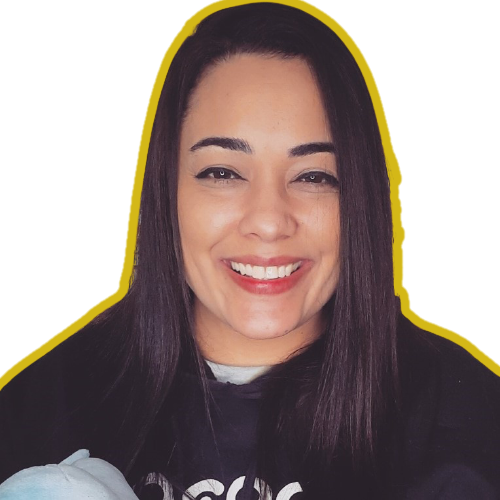
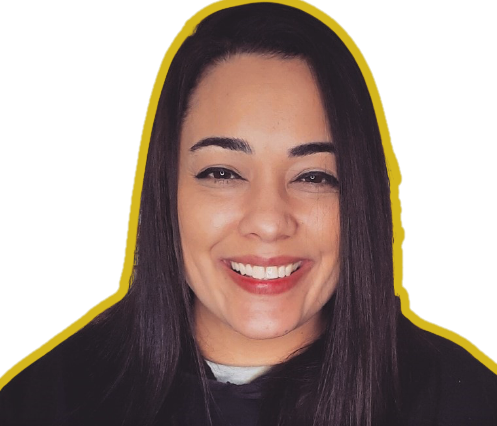
Atualizei tamanho da imagem e link das redes

diff --git a/resiliaflix_contato/contato.html b/resiliaflix_contato/contato.html
@@ -65,100 +65,103 @@
         </div>
         1-->
          <!--Amanda-->
-        <div class="card-deck">
-            <div class="card">
-              <img class="rounded-circle" width="90%" src="teste.png" alt="Card image cap">
-              <div class="card-body">
-                <h5 class="card-title">Amanda</h5>
-                <div class="logos">
-                    <nav class = "redes">
-                        <a href="https://github.com/Moniquesouzas"><img class="rounded" width="70%"  src="git.png"></a>
-                        <a href="https://www.linkedin.com/in/moniquesouzas/"><img class="rounded" width="70%" src="link.png"></a>
-                        <a href="mailto:monique.souzas@gmail.com"><img class="rounded" width="70%" src="mail.png"></a>
-                    </nav>
-                </div>
+        <div class="conjunto">
+            <div class="card-deck">
+                <div class="card">
+                <img class="rounded-circle" width="90%" src="amanda.png" alt="Card image cap">
                 
-              </div>
-            </div>
-            <!--Emanuelly Assuéria-->
-            <div class="card">
-              <img class= "rounded-circle" width="80%" src="emanuelly.png" alt="Card image cap" >              
-              <div class="card-body" > 
-                <h5 class="card-title">Emanuelly</h5>
-                <div class="logos">
-                    <nav class = "redes">
-                        <a href="https://github.com/Moniquesouzas"><img class="rounded" width="70%"  src="git.png"></a>
-                        <a href="https://www.linkedin.com/in/moniquesouzas/"><img class="rounded" width="70%" src="link.png"></a>
-                        <a href="https://www.linkedin.com/in/moniquesouzas/"><img class="rounded" width="70%" src="mail.png"></a>
-                    </nav>
-                </div>
-                
-              </div>
-            </div>
-            <!--Helena Fonseca-->
-            <div class="card">
-              <img class= "rounded-circle" width="77%" src="helena.png" alt="Card image cap">
                 <div class="card-body">
-                <h5 class="card-title">Helena</h5>
-                <div class="logos">
-                    <nav class = "redes">
-                        <a href="https://github.com/Moniquesouzas"><img class="rounded" width="70%"  src="git.png"></a>
-                        <a href="https://www.linkedin.com/in/moniquesouzas/"><img class="rounded" width="70%" src="link.png"></a>
-                        <a href="https://www.linkedin.com/in/moniquesouzas/"><img class="rounded" width="70%" src="mail.png"></a>
-                    </nav>
-                </div>
-              
-              </div>
-            </div>
-        </div>
-       
-        <div class="card-deck">
-            <!--Jéssica Rodrigues-->
-            <div class="card">
-                
-              <img class= "rounded-circle" width="80%" src="jessica2.png" alt="Card image cap">              
-              <div class="card-body">
-                <h5 class="card-title">Jéssica</h5>
-                <div class="logos">
-                    <nav class = "redes">
-                        <a href="https://github.com/Moniquesouzas"><img class= "rounded" width="70%"  src="git.png"></a>
-                        <a href="https://www.linkedin.com/in/moniquesouzas/"><img class="rounded" width="70%" src="link.png"></a>
-                        <a href="https://www.linkedin.com/in/moniquesouzas/"><img class="rounded" width="70%" src="mail.png"></a>
-                    </nav>
-                </div>
-                
-              </div>
-            </div>
-            <!--Monique Souza-->
-            <div class="card">
-              <img class="rounded-circle" width="80%" src="teste.png" alt="Card image cap">
-              <div class="card-body">
-                <h5 class="card-title">Card title</h5>
-                <div class="logos">
-                    <nav class = "redes">
-                        <a href="https://github.com/Moniquesouzas"><img class="logoGit" width="70%"  src="git.png"></a>
-                        <a href="https://www.linkedin.com/in/moniquesouzas/"><img class="logoLinkedin" width="70%" src="link.png"></a>
-                        <a href="https://www.linkedin.com/in/moniquesouzas/"><img class="logoLinkedin" width="70%" src="mail.png"></a>
-                    </nav>
-                </div>
-                
-              </div>
-            </div>
-            <!--Vanessa Jesus-->
-            <div class="card">
-              <img class="rounded-circle" width="80%" src="teste.png" alt="Card image cap">
-                <div class="card-body">
-                    <h5 class="card-title">Card title</h5>
+                    <h5 class="card-title">Amanda</h5>
                     <div class="logos">
                         <nav class = "redes">
-                            <a href="https://github.com/Moniquesouzas"><img class="logoGit" width="80%"  src="git.png"></a>
-                            <a href="https://www.linkedin.com/in/moniquesouzas/"><img class="logoLinkedin" width="80%" src="link.png"></a>
-                            <a href="https://www.linkedin.com/in/moniquesouzas/"><img class="logoLinkedin" width="80%" src="mail.png"></a>
+                            <a href="https://github.com/amanda-acacio"><img class="rounded" width="80%"  src="git.png"></a>
+                            <a href="https://www.linkedin.com/in/amanda-santiago-66980a147/"><img class="rounded" width="80%" src="link.png"></a>
+                            <a href="mailto:monique.souzas@gmail.com"><img class="rounded" width="80%" src="mail.png"></a>
                         </nav>
                     </div>
-               </div>
+                    
+                </div>
+                </div>
+                <!--Emanuelly Assuéria-->
+                <div class="card">
+                <img class= "rounded-circle" width="100%" src="emanuelly.png" alt="Card image cap" >              
+                <div class="card-body" > 
+                    <h5 class="card-title">Emanuelly</h5>
+                    <div class="logos">
+                        <nav class = "redes">
+                            <a href="https://github.com/assueria"><img class="rounded" width="80%"  src="git.png"></a>
+                            <a href="https://www.linkedin.com/in/assueria/"><img class="rounded" width="80%" src="link.png"></a>
+                            <a href="mailto:ellyassueria@gmail.com"><img class="rounded" width="80%" src="mail.png"></a>
+                        </nav>
+                    </div>
+                    
+                </div>
+                </div>
+                <!--Helena Fonseca-->
+                <div class="card">
+                <img class= "rounded-circle" width="96%" src="helena.png" alt="Card image cap">
+                    <div class="card-body">
+                    <h5 class="card-title">Helena</h5>
+                    <div class="logos">
+                        <nav class = "redes">
+                            <a href="https://github.com/HelenaCFH"><img class="rounded" width="80%"  src="git.png"></a>
+                            <a href="https://www.linkedin.com/in/helena-fonseca-a03976156"><img class="rounded" width="80%" src="link.png"></a>
+                            <a href="mailto:helenacsfonseca@hotmail.com"><img class="rounded" width="80%" src="mail.png"></a>
+                        </nav>
+                    </div>
+                
+                </div>
+                </div>
             </div>
-        </div>
+        
+            <div class="card-deck">
+                <!--Jéssica Rodrigues-->
+                <div class="card">
+                    
+                <img class= "rounded-circle" width="100%" src="jessica.png" alt="Card image cap">              
+                <div class="card-body">
+                    <h5 class="card-title">Jéssica</h5>
+                    <div class="logos">
+                        <nav class = "redes">
+                            <a href="https://github.com/JessRogeliana"><img class= "rounded" width="80%"  src="git.png"></a>
+                            <a href="https://www.linkedin.com/in/j%C3%A9ssica-rodrigues-279b47200/"><img class="rounded" width="80%" src="link.png"></a>
+                            <a href="mailto:kuroi.taiga@gmail.com"><img class="rounded" width="80%" src="mail.png"></a>
+                        </nav>
+                    </div>
+                    
+                </div>
+                </div>
+                <!--Monique Souza-->
+                <div class="card">
+                <img class="rounded-circle" width="100%" src="monique.png" alt="Card image cap">
+                <div class="card-body">
+                    <h5 class="card-title">Monique</h5>
+                    <div class="logos">
+                        <nav class = "redes">
+                            <a href="https://github.com/Moniquesouzas"><img class="rounded" width="80%"  src="git.png"></a>
+                            <a href="https://www.linkedin.com/in/moniquesouzas/"><img class="rounded" width="80%" src="link.png"></a>
+                            <a href="mailto:monique.souzas@gmail.com"><img class="rounded" width="80%" src="mail.png"></a>
+                        </nav>
+                    </div>
+                    
+                </div>
+                </div>
+                <!--Vanessa Jesus-->
+                <div class="card">
+                <img class="rounded-circle" width="100%" src="vanessa.png" alt="Card image cap">
+                    <div class="card-body">
+                        <h5 class="card-title">Vanessa</h5>
+                        <div class="logos">
+                            <nav class = "redes">
+                                <a href="https://github.com/vanessajsilva"><img class="rounded" width="80%"  src="git.png"></a>
+                                <a href="https://www.linkedin.com/in/vanessa-silva-1398832a/"><img class="rounded" width="80%" src="link.png"></a>
+                                <a href="mailto:nessinha_js@hotmail.com"><img class="rounded" width="80%" src="mail.png"></a>
+                            </nav>
+                        </div>
+                </div>
+                </div>
+            </div>
+        </div> 
     </main>
         <!--Colocar form ao lado direito-->
     

diff --git a/resiliaflix_contato/style.css b/resiliaflix_contato/style.css
@@ -36,28 +36,34 @@ body {
  .menu_list li a:hover{
     color:gray;
 }
+/*Contato*/
 .card-deck {
     width: 100%;
     display: flex;
-    justify-content: flex-start;
-    flex-wrap: wrap;    
+    justify-content:space-evenly ;
+    flex-wrap: wrap;
+    
 }
 
 .card {
     margin: 3em;
-    width: 10%;
+    width: 15%;
     background:rgba(0, 255, 255, 0) ;
     border: 0;    
+    
+}
+.rounded-circle {
+    display: center;
 }
 .card-title {
-    text-align: center;
+    text-align:center;
     font-family: Arial, Helvetica, sans-serif;
     font-size: 1.3em ;
     color:#fff ;
 }
 
 .redes {
-    display: flex;
+    display:flex;
     justify-content: center;
 }
 
@@ -72,6 +78,7 @@ footer {
     justify-content: center;
     padding: 3em;
     margin-top: 1em;
+    width: 100%;
 }
  
 footer p {
@@ -81,5 +88,14 @@ footer p {
 }
 
 footer p:hover {
+    color:gray;
+}
+
+footer p a { 
+    color: #fff;
+    text-decoration: none;
+}
+
+footer p a:hover {
     color:gray;
 }
